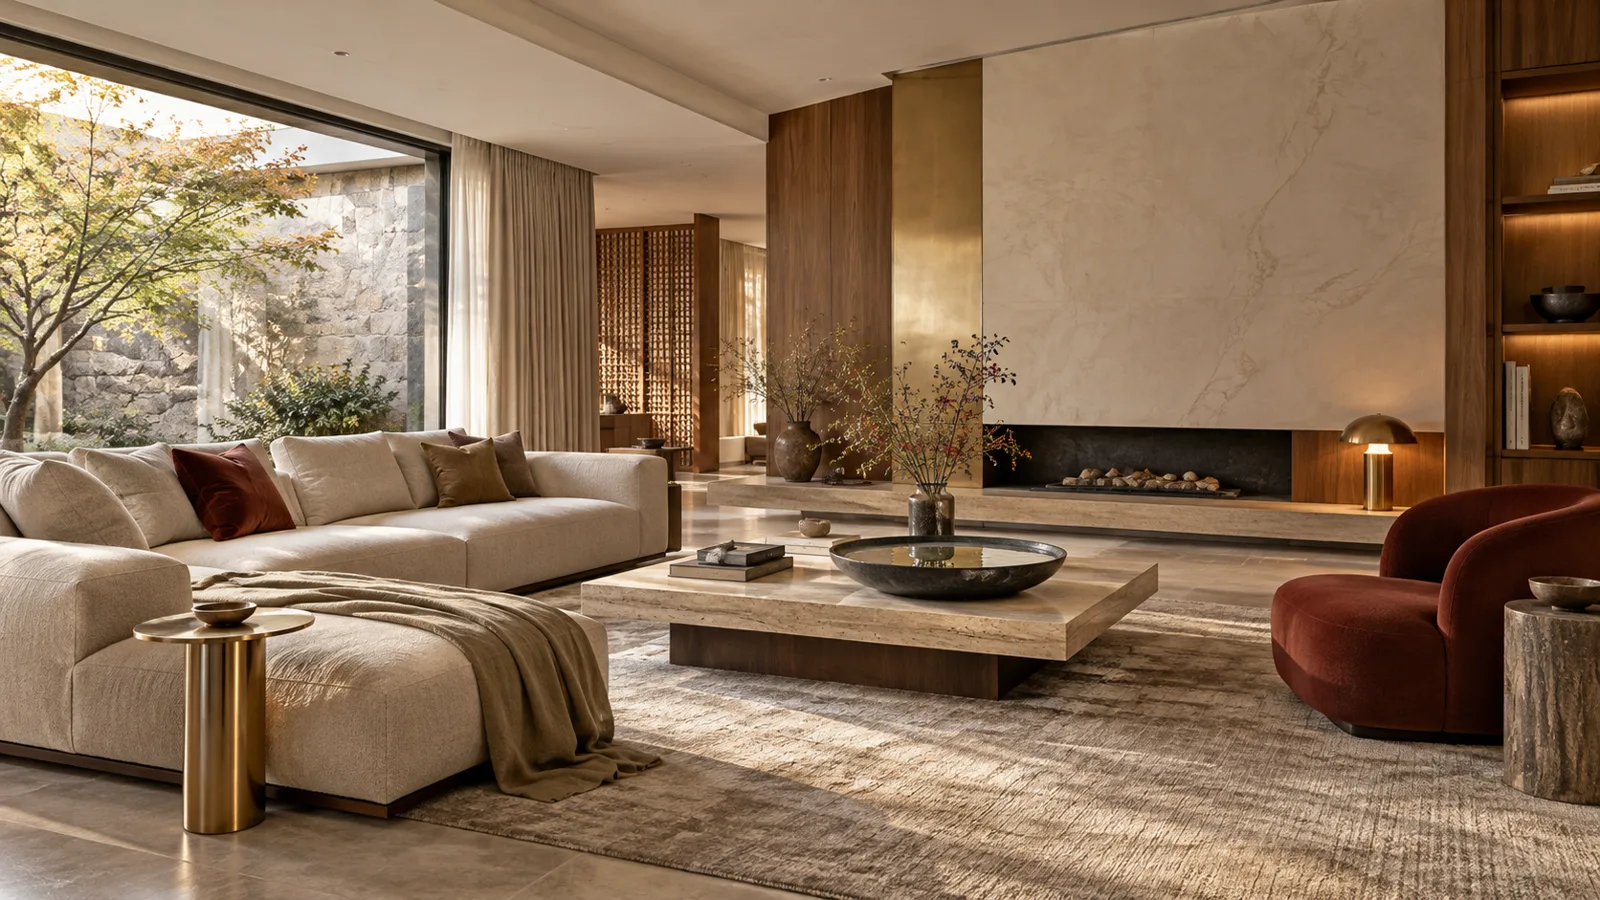
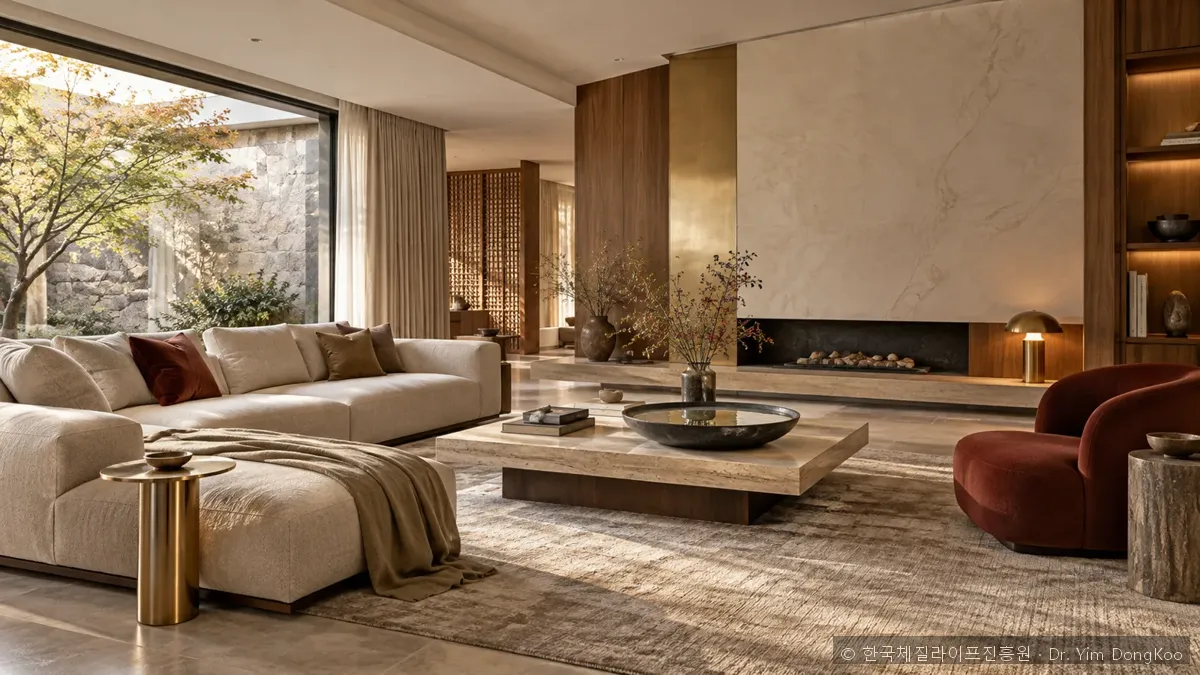
feat(sasang-feng-shui): 이미지 출처 표시·1200px 축소, 이미지 우클릭·끌어 저장 차단

Changed region(s): [[0.6783, 0.9333, 1.0, 0.9956]]

diff --git a/sasang-feng-shui/gate.js b/sasang-feng-shui/gate.js
@@ -92,4 +92,11 @@
     var t = e.target.closest && e.target.closest("[data-guidebook]");
     if (t) { e.preventDefault(); dlg.showModal(); }
   });
+  // 이미지 우클릭·끌어 저장 막기 (텍스트 복사는 막지 않는다)
+  var noSave = document.createElement("style");
+  noSave.textContent = "img{-webkit-user-drag:none;user-select:none;-webkit-touch-callout:none}";
+  document.head.appendChild(noSave);
+  ["contextmenu", "dragstart"].forEach(function (ev) {
+    document.addEventListener(ev, function (e) { if (e.target && e.target.tagName === "IMG") e.preventDefault(); });
+  });
 })();
